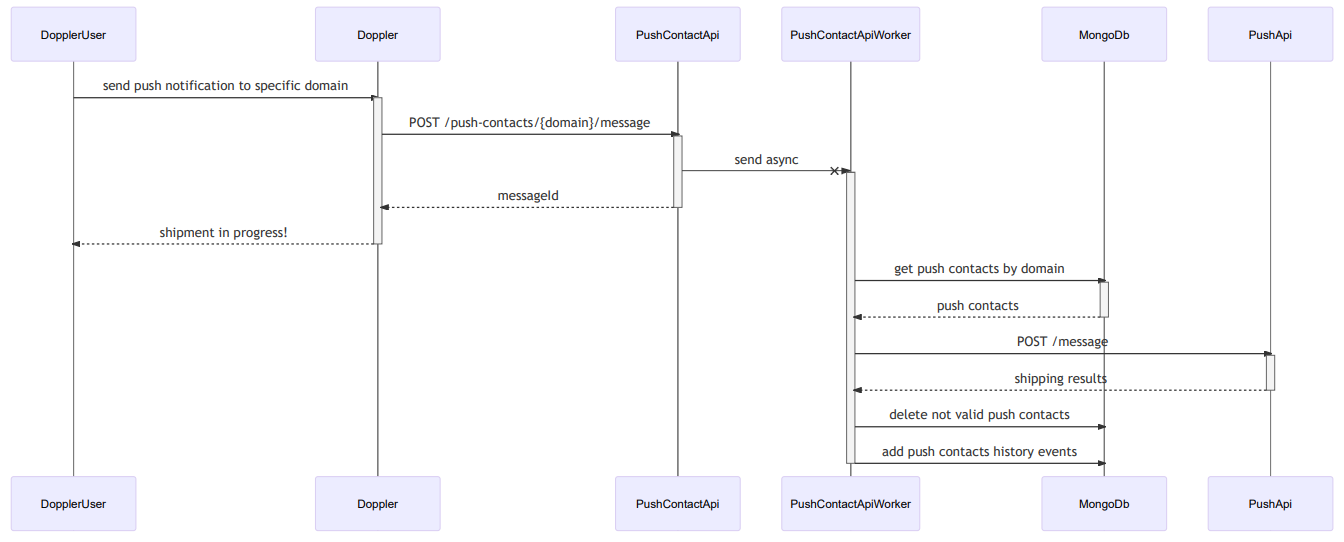
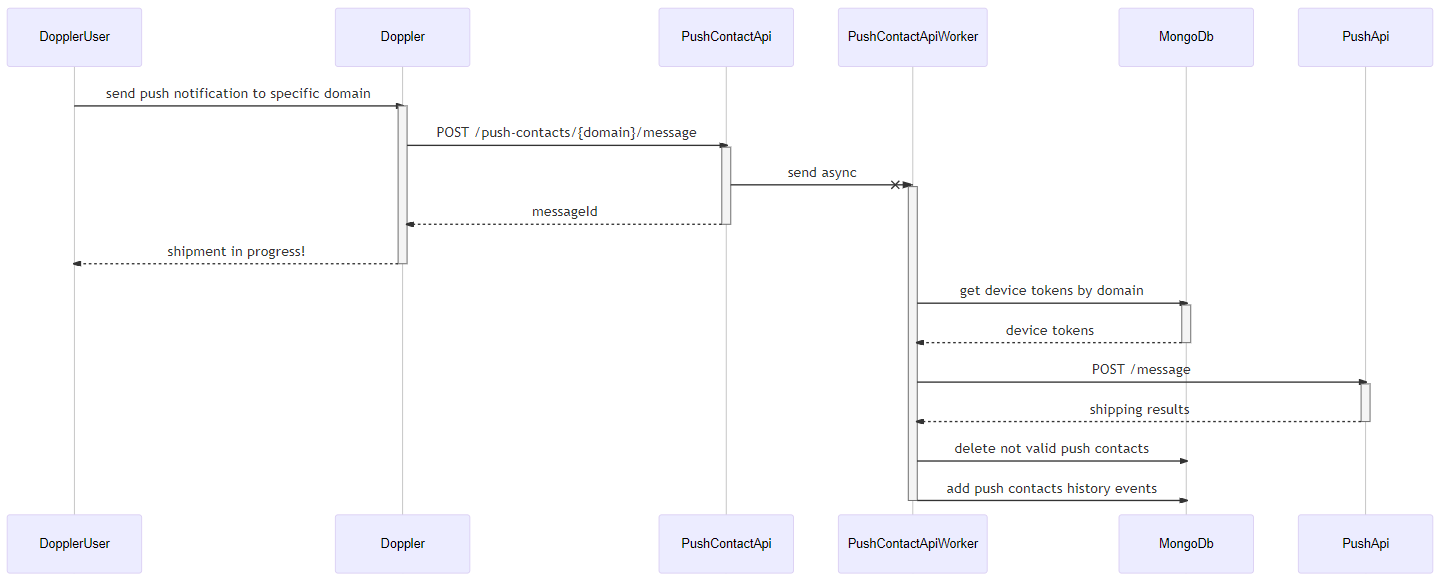
docs: add obtain only device tokens from storage documentation

diff --git a/README.md b/README.md
@@ -64,8 +64,8 @@ PushContactApi-x+PushContactApiWorker: send async
 PushContactApi-->>-Doppler: messageId
 Doppler-->>-DopplerUser: shipment in progress!
 
-PushContactApiWorker->>+MongoDb: get push contacts by domain
-MongoDb-->>-PushContactApiWorker: push contacts
+PushContactApiWorker->>+MongoDb: get device tokens by domain
+MongoDb-->>-PushContactApiWorker: device tokens
 PushContactApiWorker->>+PushApi: POST /message
 PushApi-->>-PushContactApiWorker: shipping results
 PushContactApiWorker->>MongoDb: delete not valid push contacts
